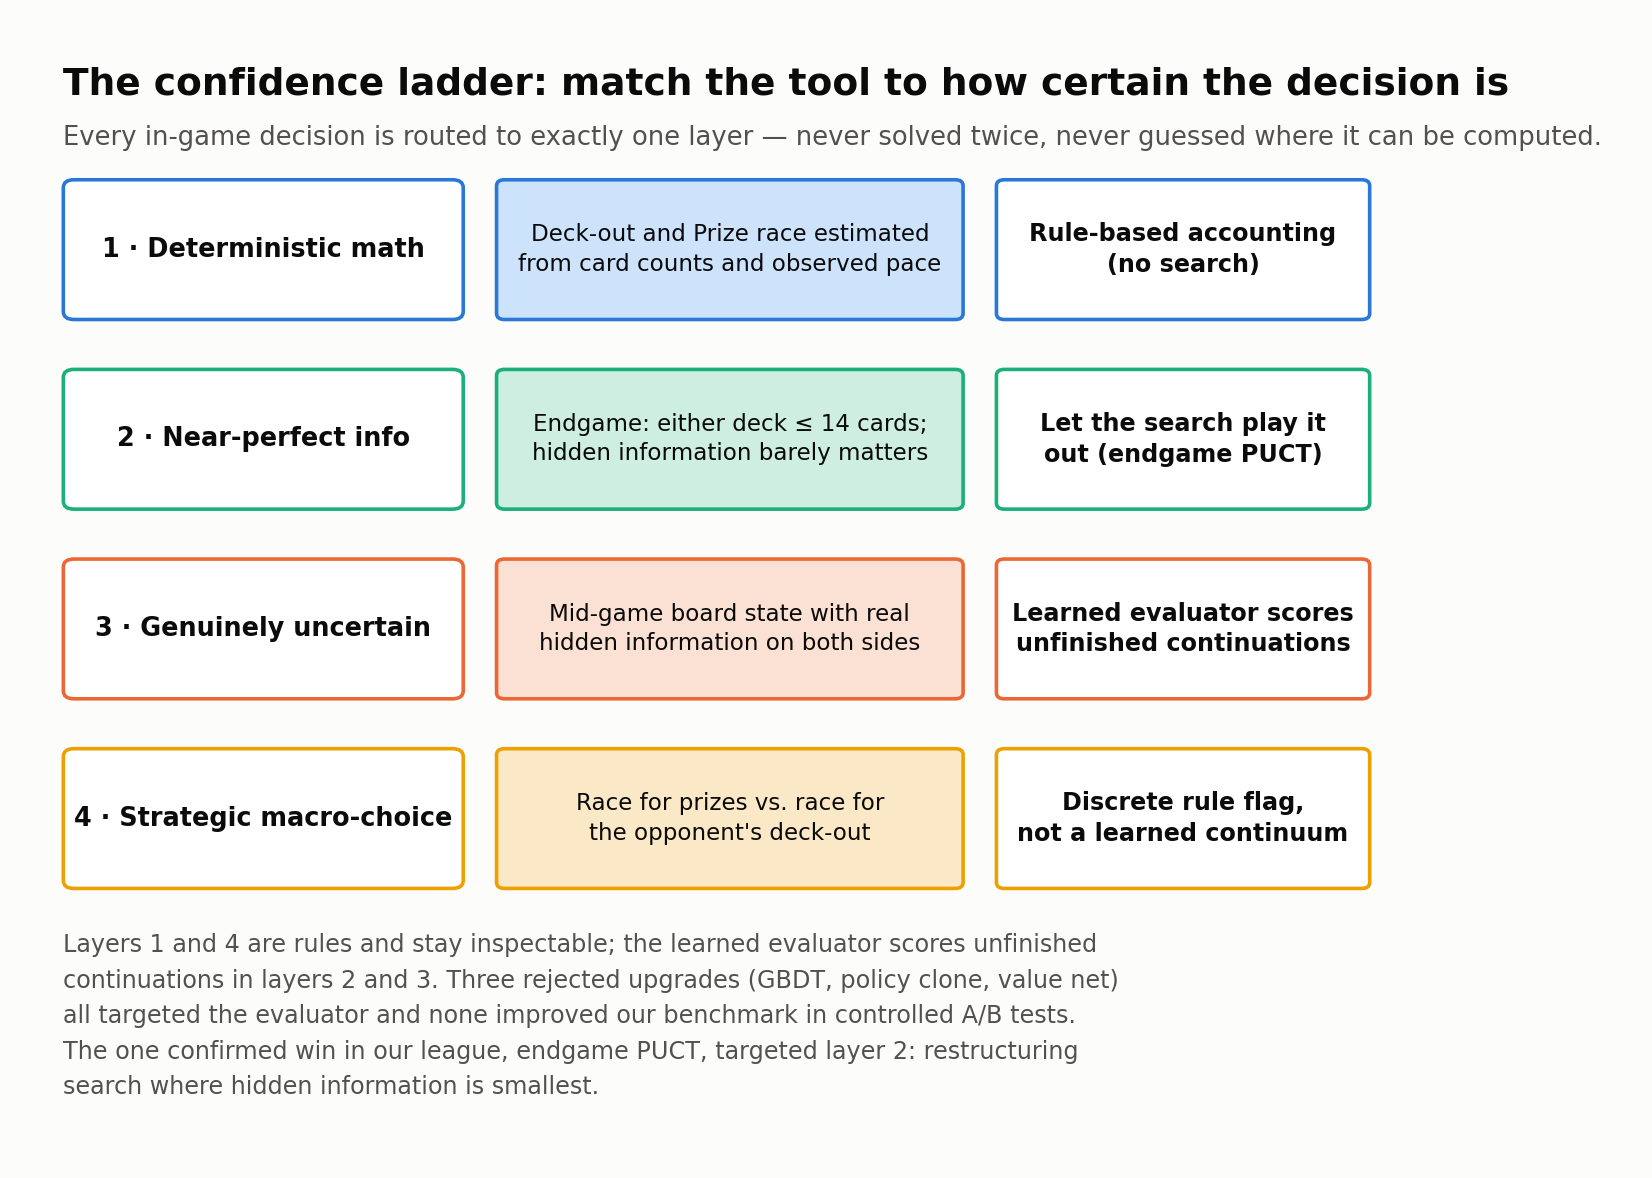
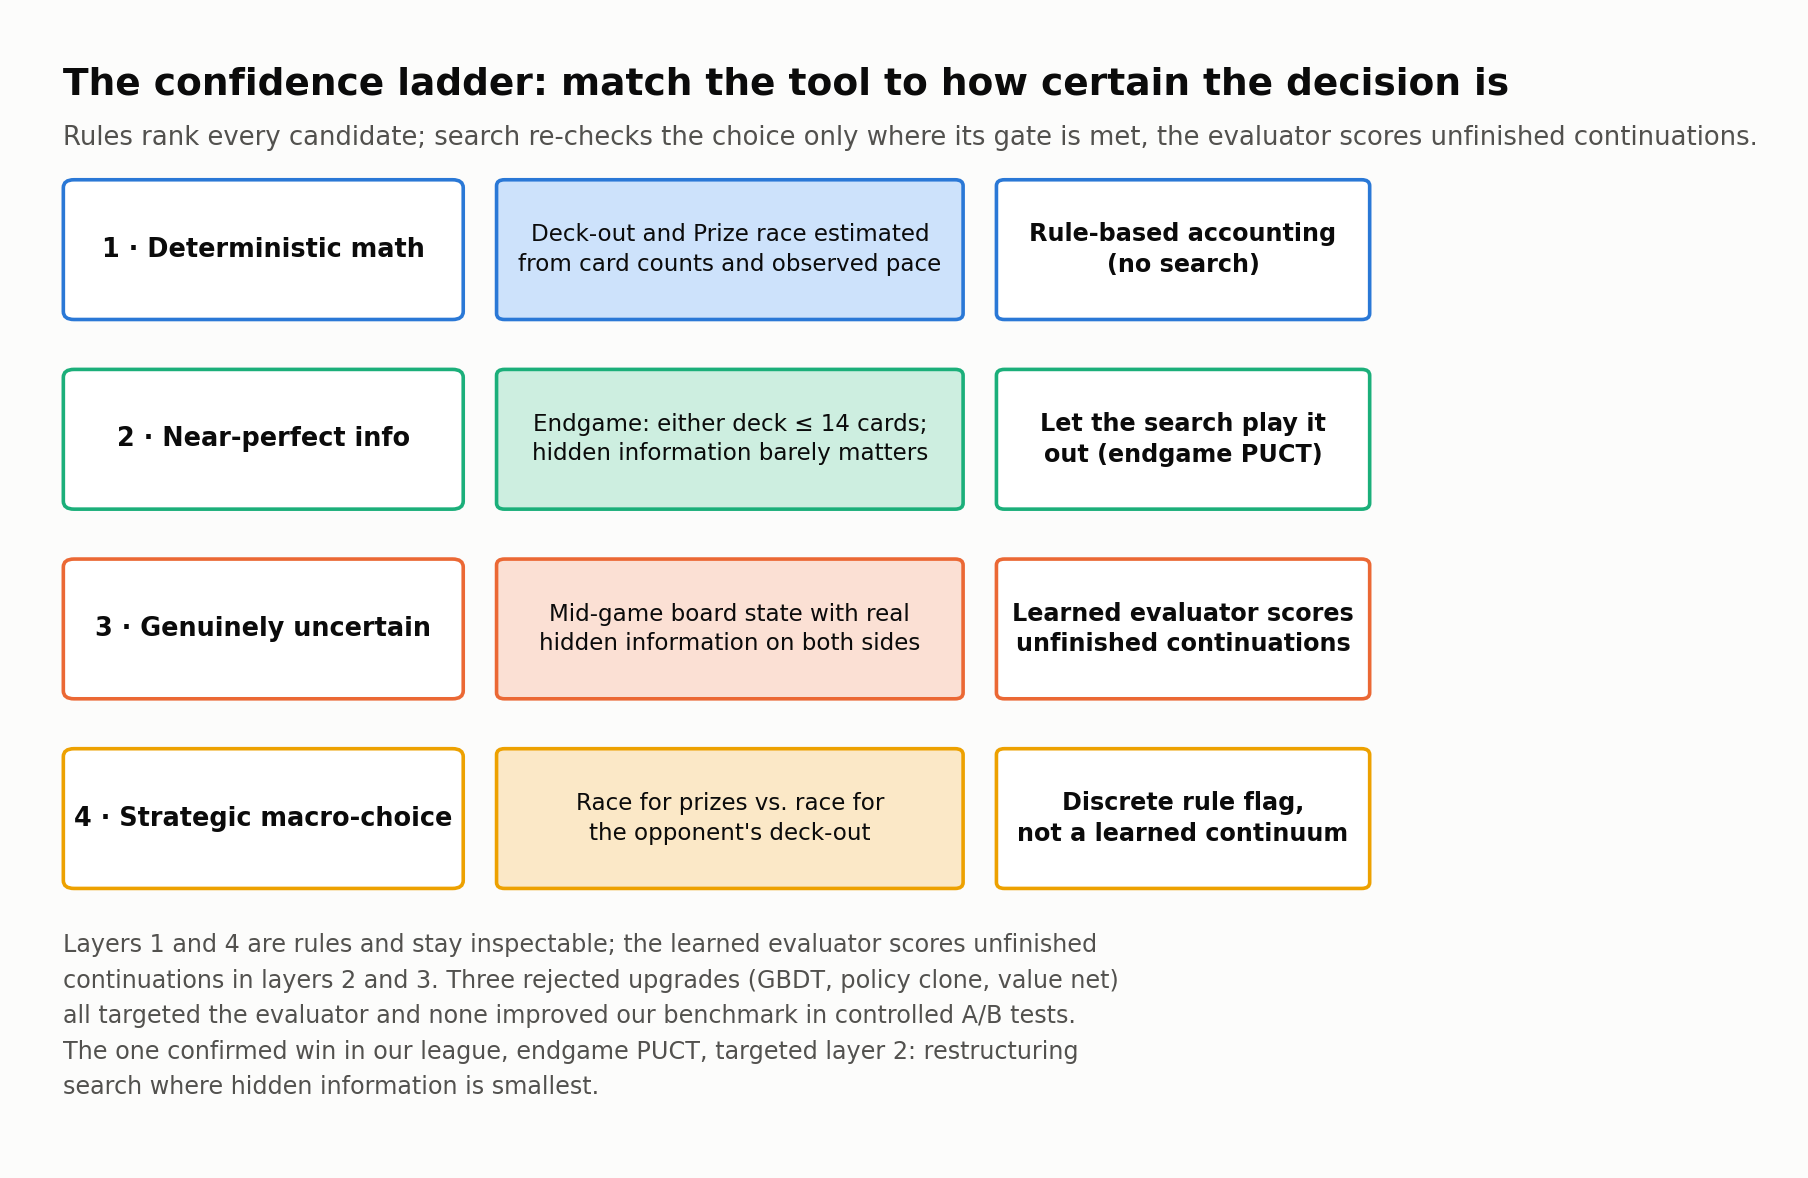
companion writeup: figure 3 subtitle matches implementation; hidden-state sentence corrected

diff --git a/docs/writeup/make_diagrams.py b/docs/writeup/make_diagrams.py
@@ -56,7 +56,7 @@ ax.axis("off")
 
 ax.text(0.1, 12.75, "The confidence ladder: match the tool to how certain the decision is",
         fontsize=13.5, weight="bold", color=INK)
-ax.text(0.1, 12.25, "Every in-game decision is routed to exactly one layer — never solved twice, never guessed where it can be computed.",
+ax.text(0.1, 12.25, "Rules rank every candidate; search re-checks the choice only where its gate is met, the evaluator scores unfinished continuations.",
         fontsize=9.3, color=INK2)
 
 row_h = 1.4

diff --git a/docs/writeup/writeup.md b/docs/writeup/writeup.md
@@ -67,7 +67,7 @@ The evaluator variants we tested did not improve our benchmark, which moved effo
 
 All numbers here come from Kaggle's episode records for our 81 entries (7,006 games; 4,852 across 51 Great Tusk builds).
 
-**H0: the information really shrinks.** Three thresholds below are distinct: the *regime* is the opponent's deck at eight or fewer cards; the post-deadline test uses fewer than 15 hidden opponent cards; search switches on when either deck is at most 14. Figure 9 counts, turn by turn across 1,999 final-entry games, how many of the opponent's 60 cards we cannot see (deck + hand + remaining Prizes): 59 on turn 1, 25 by turn 15, 18 when their deck reaches eight — by then, given a known 60-card list, what stays hidden is only how the remaining cards split between hand and Prizes.
+**H0: the information really shrinks.** Three thresholds below are distinct: the *regime* is the opponent's deck at eight or fewer cards; the post-deadline test uses fewer than 15 hidden opponent cards; search switches on when either deck is at most 14. Figure 9 counts, turn by turn across 1,999 final-entry games, how many of the opponent's 60 cards we cannot see (deck + hand + remaining Prizes): 59 on turn 1, 25 by turn 15, 18 when their deck reaches eight — by then, given a known 60-card list, what stays hidden is how the remaining cards split between deck, hand and Prizes, and the order of those eight.
 
 ![Figure 9](images/11_hidden_info.png)
 
